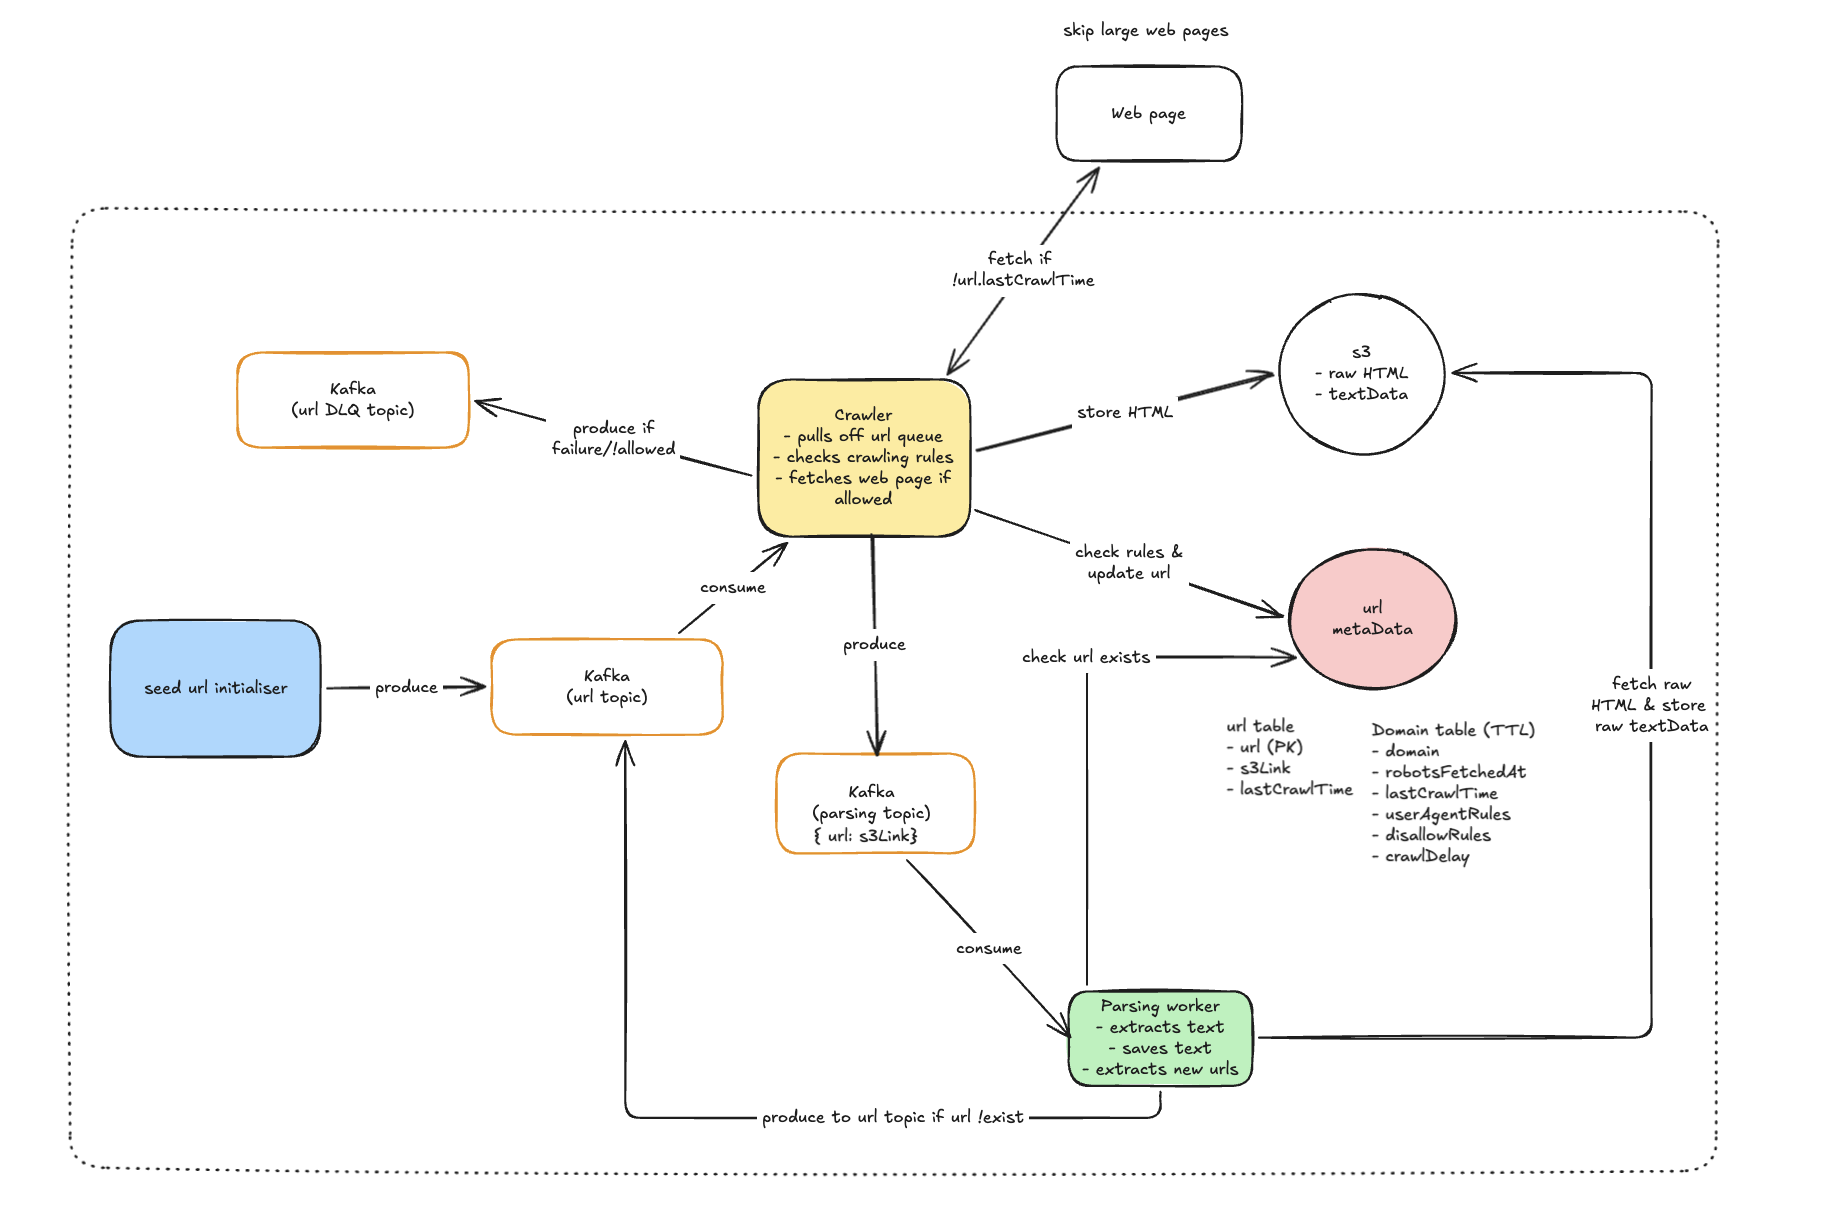
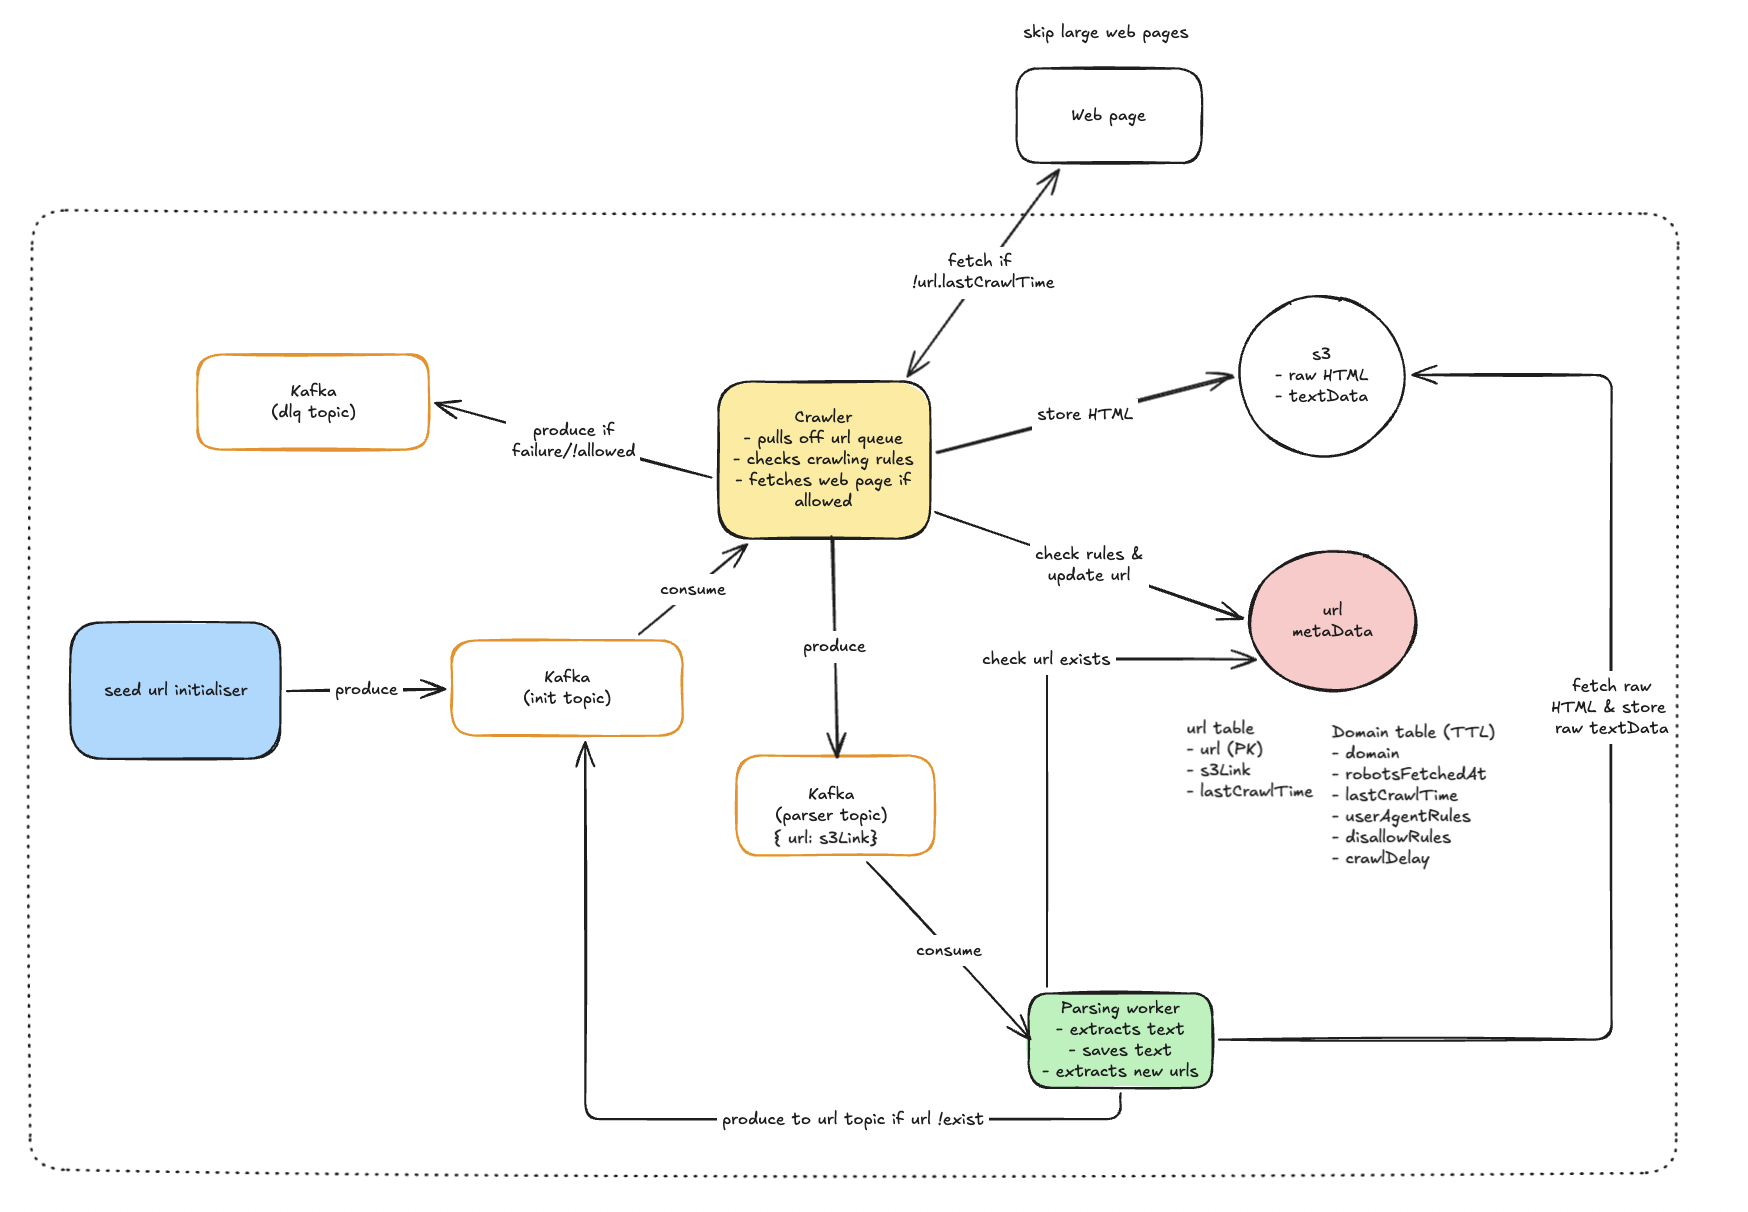
Added parser topic and renamed url topic to init

diff --git a/services/crawler/consumer/consumer.go b/services/crawler/consumer/consumer.go
@@ -54,7 +54,7 @@ type Consumer struct {
 func New(ctx context.Context, kafkaCfg *config.Kafka, awsCfg *config.AWS, prod *producer.Producer) (*Consumer, error) {
 	reader := kafka.NewReader(kafka.ReaderConfig{
 		Brokers: []string{kafkaCfg.Broker},
-		Topic:   kafkaCfg.URLTopic,
+		Topic:   kafkaCfg.InitTopic,
 
 		GroupID:  "crawler",
 		MinBytes: kafkaMinBatchSize,
@@ -88,9 +88,9 @@ func (c *Consumer) Consume() error {
 
 	for range workerCount {
 		wg.Go(func() {
-			for j := range jobs {
-				slog.Info("processing message", slog.String("id", string(j.Key)))
-				if err := c.processMessage(&j); err != nil {
+			for job := range jobs {
+				slog.Info("processing message", slog.String("id", string(job.Key)))
+				if err := c.processMessage(&job); err != nil {
 					slog.Error("process message", slog.Any("error", err))
 					var hErr *HTTPError
 					errStatusCode := 0
@@ -98,10 +98,10 @@ func (c *Consumer) Consume() error {
 						errStatusCode = hErr.StatusCode
 					}
 
-					c.producer.PublishDLQ(&j, errStatusCode)
+					c.producer.PublishDLQ(&job, errStatusCode)
 				}
 
-				if err := c.reader.CommitMessages(context.WithoutCancel(c.ctx), j); err != nil {
+				if err := c.reader.CommitMessages(context.WithoutCancel(c.ctx), job); err != nil {
 					slog.Error("commit message offset", slog.Any("error", err))
 				}
 			}

diff --git a/services/initialiser/main.go b/services/initialiser/main.go
@@ -66,31 +66,31 @@ func run() error {
 	}))
 	slog.SetDefault(logger)
 
-	writer := newWriter(cfg.Kafka.Broker, cfg.Kafka.URLTopic)
+	writer := newWriter(cfg.Kafka.Broker, cfg.Kafka.InitTopic)
 	defer writer.Close() //nolint:errcheck
 	writeCtx, cancelCtx := context.WithTimeout(ctx, kafkaTimeout)
 	defer cancelCtx()
 
 	failedCount := 0
-	for _, u := range seedURLs {
+	for _, url := range seedURLs {
 		msgID := uuid.New()
 		msg := kafka.Message{
 			Key:   []byte(msgID.String()),
-			Value: []byte(u),
+			Value: []byte(url),
 		}
 
 		err := writer.WriteMessages(writeCtx, msg)
 		if err != nil {
 			failedCount++
-			slog.Error("write message", slog.String("topic", cfg.Kafka.URLTopic), slog.Any("error", err))
+			slog.Error("write message", slog.String("topic", cfg.Kafka.InitTopic), slog.Any("error", err))
 			continue
 		}
 
-		slog.Info("produced message", slog.String("id", msgID.String()), slog.String("url", u))
+		slog.Info("produced message", slog.String("id", msgID.String()), slog.String("url", url))
 	}
 
 	slog.Info("producing to topic complete",
-		slog.String("topic", cfg.Kafka.URLTopic),
+		slog.String("topic", cfg.Kafka.InitTopic),
 		slog.Int("total", len(seedURLs)),
 		slog.Int("failed", failedCount),
 	)

diff --git a/services/crawler/config/config.go b/services/crawler/config/config.go
@@ -7,9 +7,10 @@ import (
 )
 
 type Kafka struct {
-	Broker   string
-	URLTopic string
-	DLQTopic string
+	Broker      string
+	InitTopic   string
+	DLQTopic    string
+	ParserTopic string
 }
 
 type AWS struct {
@@ -27,8 +28,9 @@ func ParseEnv() (*App, error) {
 	envVars, err := sharedconfig.LoadEnvVars([]string{
 		"LOG_LEVEL",
 		"KAFKA_BROKER",
-		"KAFKA_URL_TOPIC",
+		"KAFKA_INIT_TOPIC",
 		"KAFKA_DLQ_TOPIC",
+		"KAFKA_PARSER_TOPIC",
 		"BUCKET_NAME",
 		"OBJECT_STORE_PREFIX",
 	})
@@ -44,9 +46,10 @@ func ParseEnv() (*App, error) {
 	return &App{
 		LogLevel: logLevel,
 		Kafka: &Kafka{
-			Broker:   envVars["KAFKA_BROKER"],
-			URLTopic: envVars["KAFKA_URL_TOPIC"],
-			DLQTopic: envVars["KAFKA_DLQ_TOPIC"],
+			Broker:      envVars["KAFKA_BROKER"],
+			InitTopic:   envVars["KAFKA_INIT_TOPIC"],
+			DLQTopic:    envVars["KAFKA_DLQ_TOPIC"],
+			ParserTopic: envVars["KAFKA_PARSER_TOPIC"],
 		},
 		AWS: &AWS{
 			BucketName:        envVars["BUCKET_NAME"],

diff --git a/services/initialiser/config/config.go b/services/initialiser/config/config.go
@@ -7,8 +7,8 @@ import (
 )
 
 type Kafka struct {
-	Broker   string
-	URLTopic string
+	Broker    string
+	InitTopic string
 }
 
 type App struct {
@@ -20,7 +20,7 @@ func ParseEnv() (*App, error) {
 	envVars, err := sharedconfig.LoadEnvVars([]string{
 		"LOG_LEVEL",
 		"KAFKA_BROKER",
-		"KAFKA_URL_TOPIC",
+		"KAFKA_INIT_TOPIC",
 	})
 	if err != nil {
 		return nil, err
@@ -34,8 +34,8 @@ func ParseEnv() (*App, error) {
 	return &App{
 		LogLevel: logLevel,
 		Kafka: &Kafka{
-			Broker:   envVars["KAFKA_BROKER"],
-			URLTopic: envVars["KAFKA_URL_TOPIC"],
+			Broker:    envVars["KAFKA_BROKER"],
+			InitTopic: envVars["KAFKA_INIT_TOPIC"],
 		},
 	}, nil
 }
